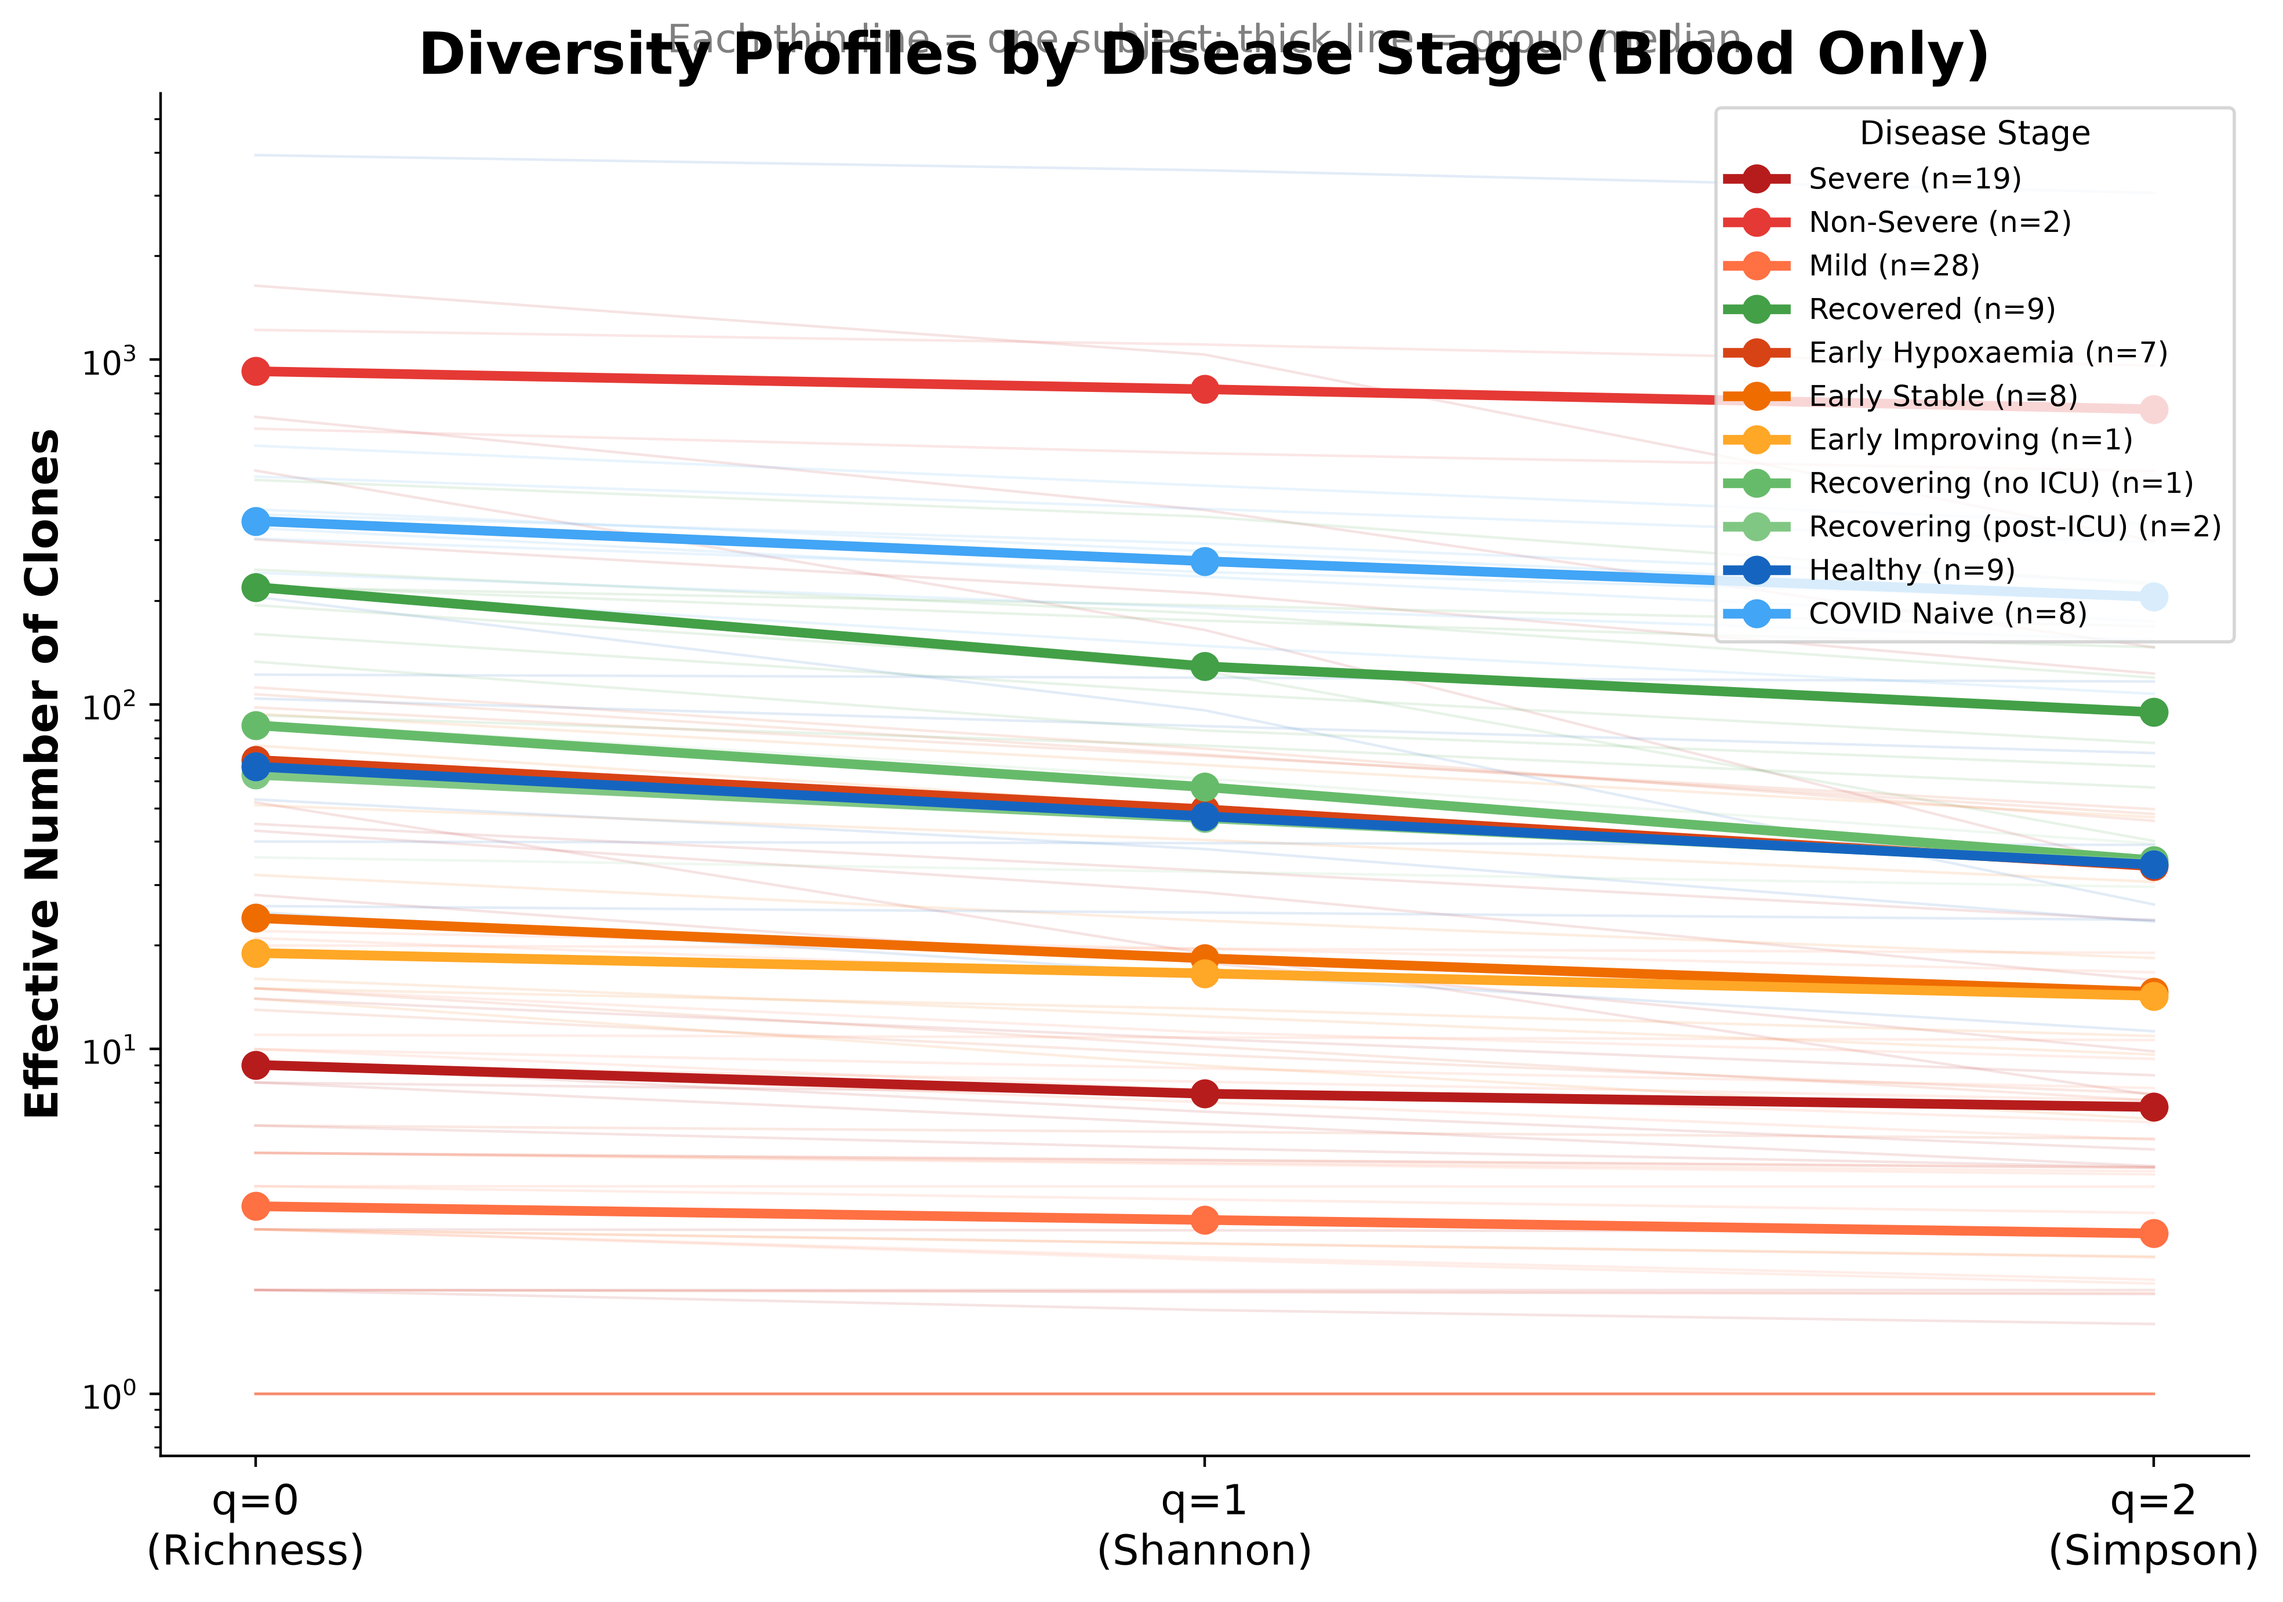
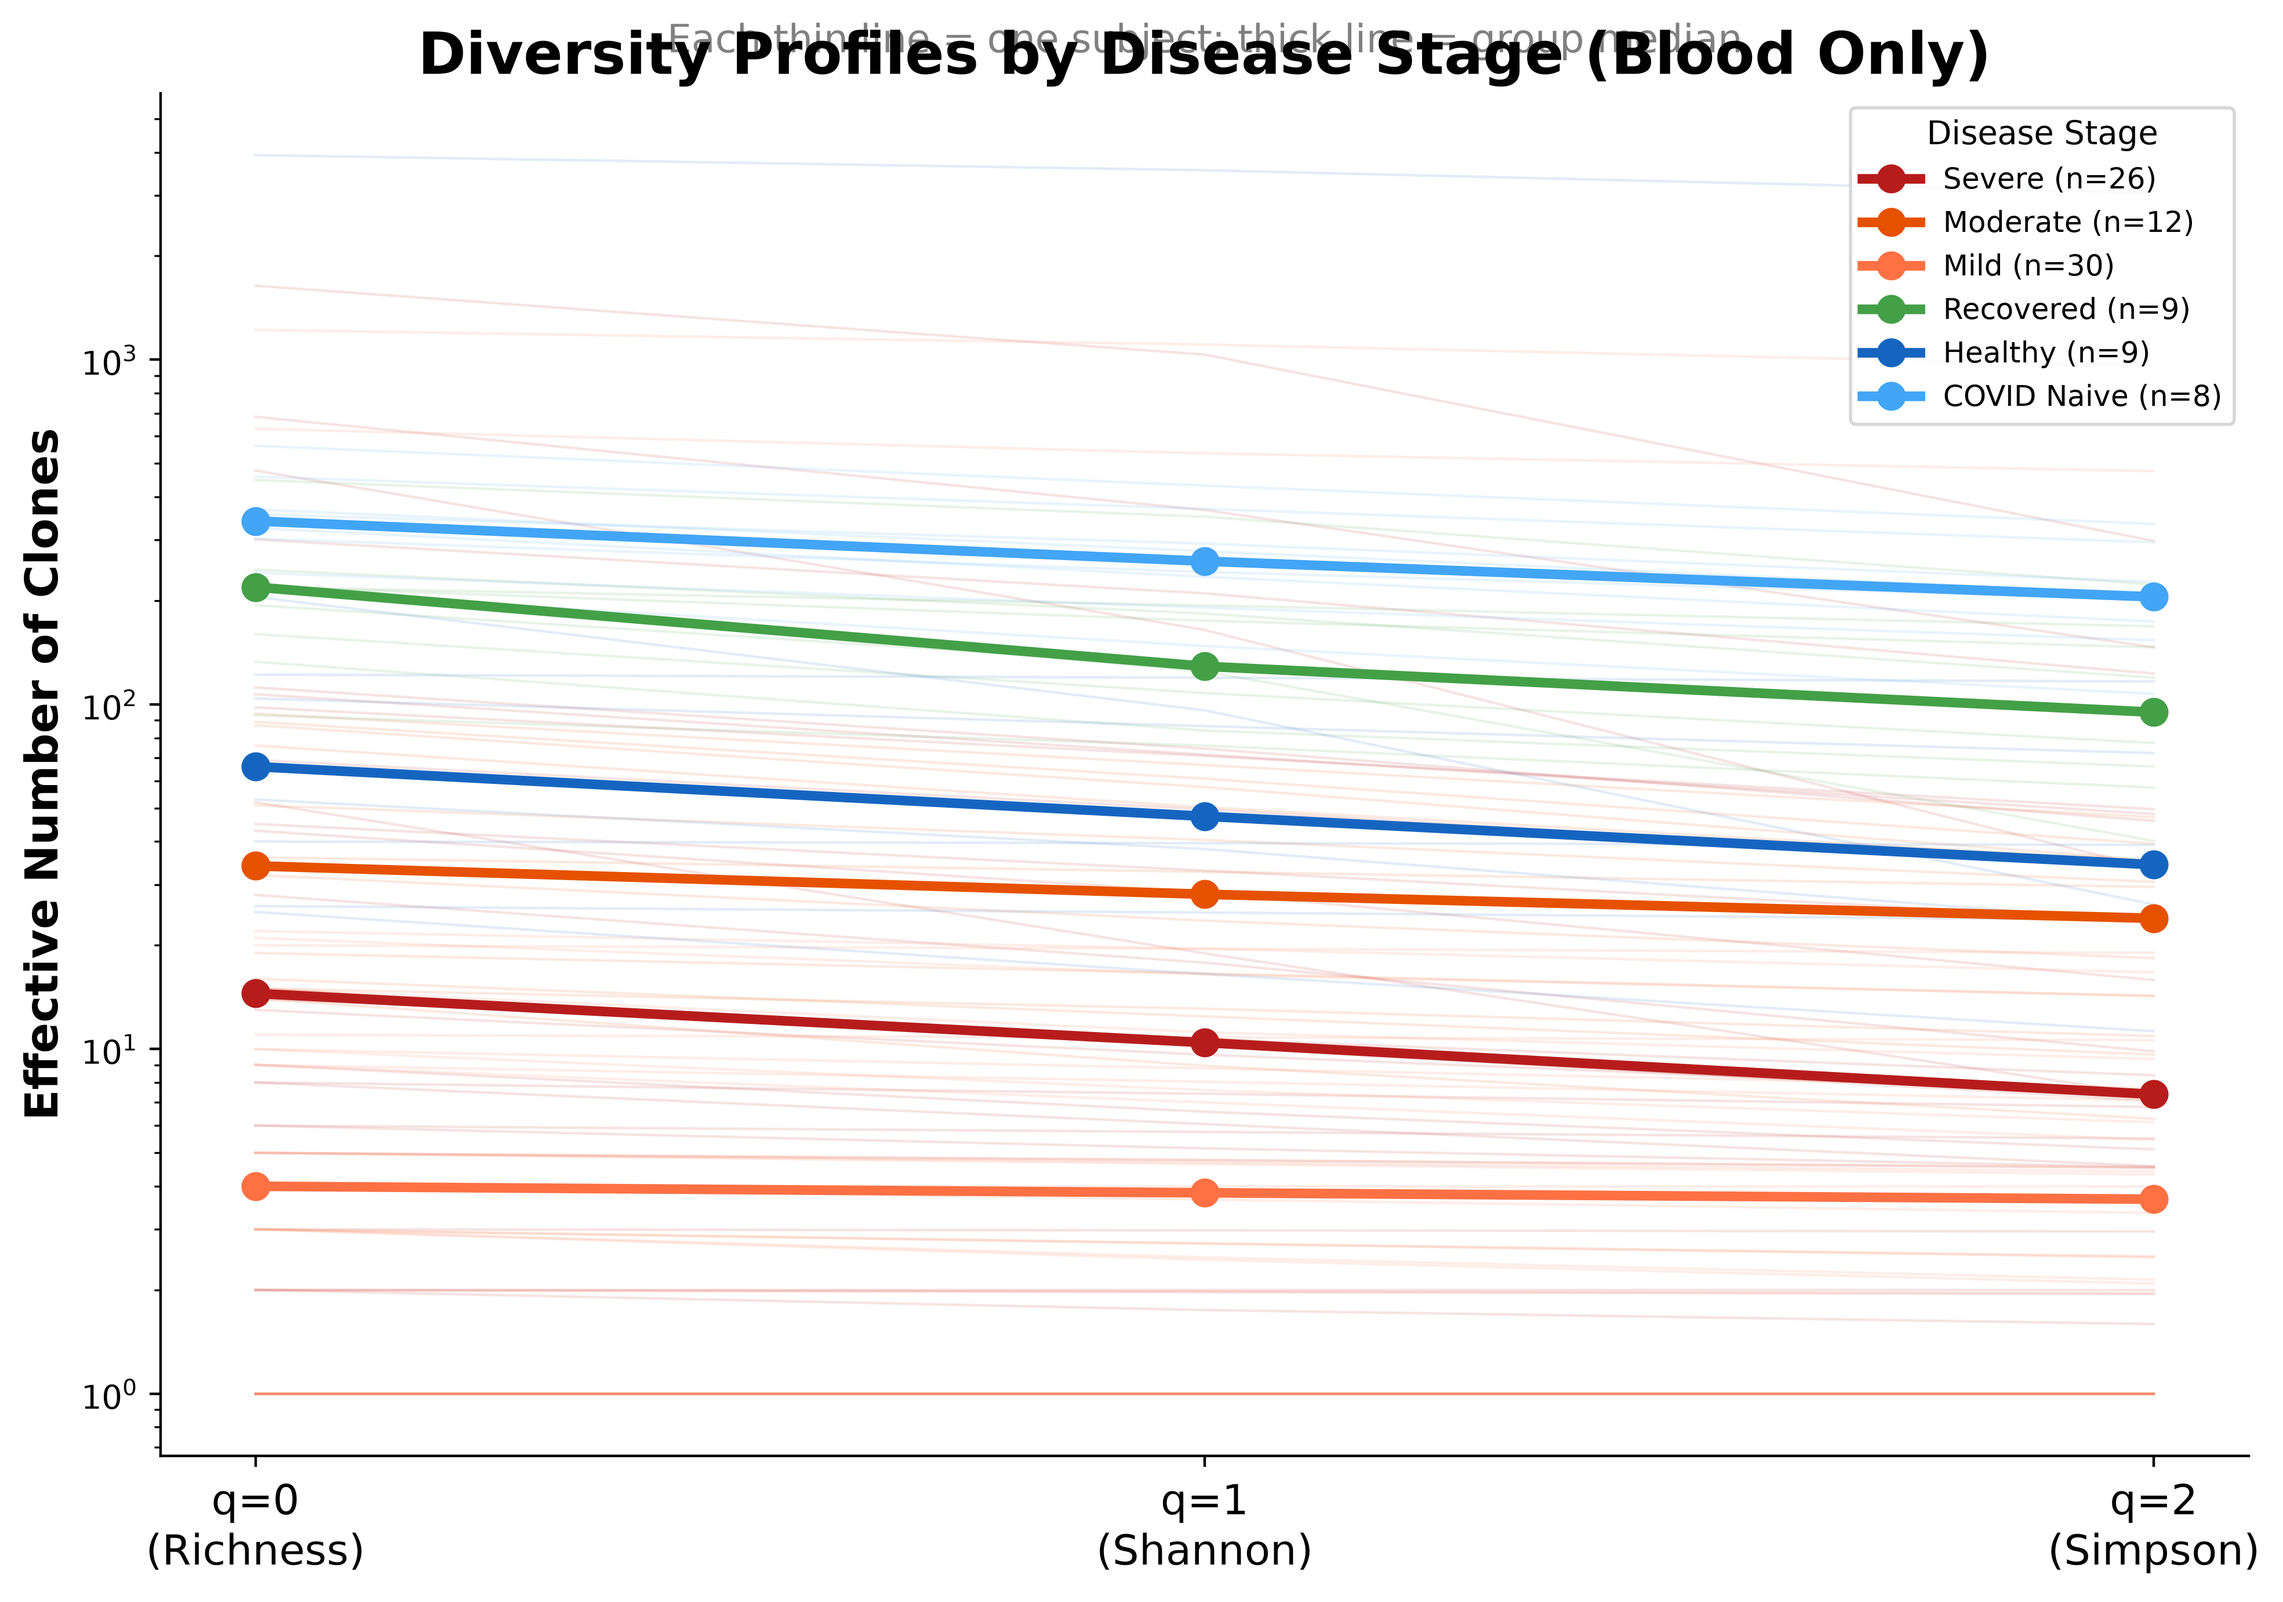
Use harmonized disease categories for Hill numbers
Grouped disease stages: Severe (severe + Early phase hypoxaemia),
Moderate (Early phase-Stable/Improving, Recovering), Mild (mild + non-severe),
Recovered, Healthy, COVID Naive. Log scale on boxplots.

Changed region(s): [[0.0937, 0.4358, 0.9683, 0.7781], [0.7184, 0.0623, 0.9683, 0.4046], [0.0937, 0.2179, 0.7184, 0.249]]

diff --git a/immunedb_STATS_API/clonal_analysis/hill_numbers_fig.py b/immunedb_STATS_API/clonal_analysis/hill_numbers_fig.py
@@ -20,14 +20,13 @@ EXCLUDE = {"lp16_Igblast-D159", "lp16_Igblast-D154", "lp16_Igblast-Hu-1",
 BLOOD_TISSUES = {"blood", "Peripheral blood", "PBL", "PBMC"}
 
 DISEASE_LABELS = {
-    "severe": "Severe", "non-severe": "Non-Severe", "mild": "Mild",
+    "severe": "Severe", "Early phase hypoxaemia": "Severe",
+    "mild": "Mild", "non-severe": "Mild",
+    "Early phase-Stable": "Moderate", "Early phase-Improving": "Moderate",
+    "Recovering without ICU-Improving": "Moderate",
+    "Recovering post-ICU -Improving": "Moderate", "Recovering post-ICU": "Moderate",
     "Recovered": "Recovered", "COVID recovered": "Recovered",
     "healthy": "Healthy", "COVID Naive": "COVID Naive",
-    "Early phase-Stable": "Early Stable", "Early phase hypoxaemia": "Early Hypoxaemia",
-    "Early phase-Improving": "Early Improving",
-    "Recovering without ICU-Improving": "Recovering (no ICU)",
-    "Recovering post-ICU -Improving": "Recovering (post-ICU)",
-    "Recovering post-ICU": "Recovering (post-ICU)",
 }
 
 def get_study(rid):
@@ -86,18 +85,12 @@ for rid, info in subj_clones.items():
 
 # Order disease categories by severity
 disease_order = [d for d in [
-    "Severe", "Non-Severe", "Mild", "Recovered",
-    "Early Hypoxaemia", "Early Stable", "Early Improving",
-    "Recovering (no ICU)", "Recovering (post-ICU)",
-    "Healthy", "COVID Naive",
+    "Severe", "Moderate", "Mild", "Recovered", "Healthy", "COVID Naive",
 ] if d in disease_hills]
 
 disease_colors = {
-    "Severe": "#b71c1c", "Non-Severe": "#e53935", "Mild": "#ff7043",
-    "Recovered": "#43a047", "Early Hypoxaemia": "#d84315",
-    "Early Stable": "#ef6c00", "Early Improving": "#ffa726",
-    "Recovering (no ICU)": "#66bb6a", "Recovering (post-ICU)": "#81c784",
-    "Healthy": "#1565c0", "COVID Naive": "#42a5f5",
+    "Severe": "#b71c1c", "Moderate": "#e65100", "Mild": "#ff7043",
+    "Recovered": "#43a047", "Healthy": "#1565c0", "COVID Naive": "#42a5f5",
 }
 
 print("Subjects per disease stage (blood only):")
